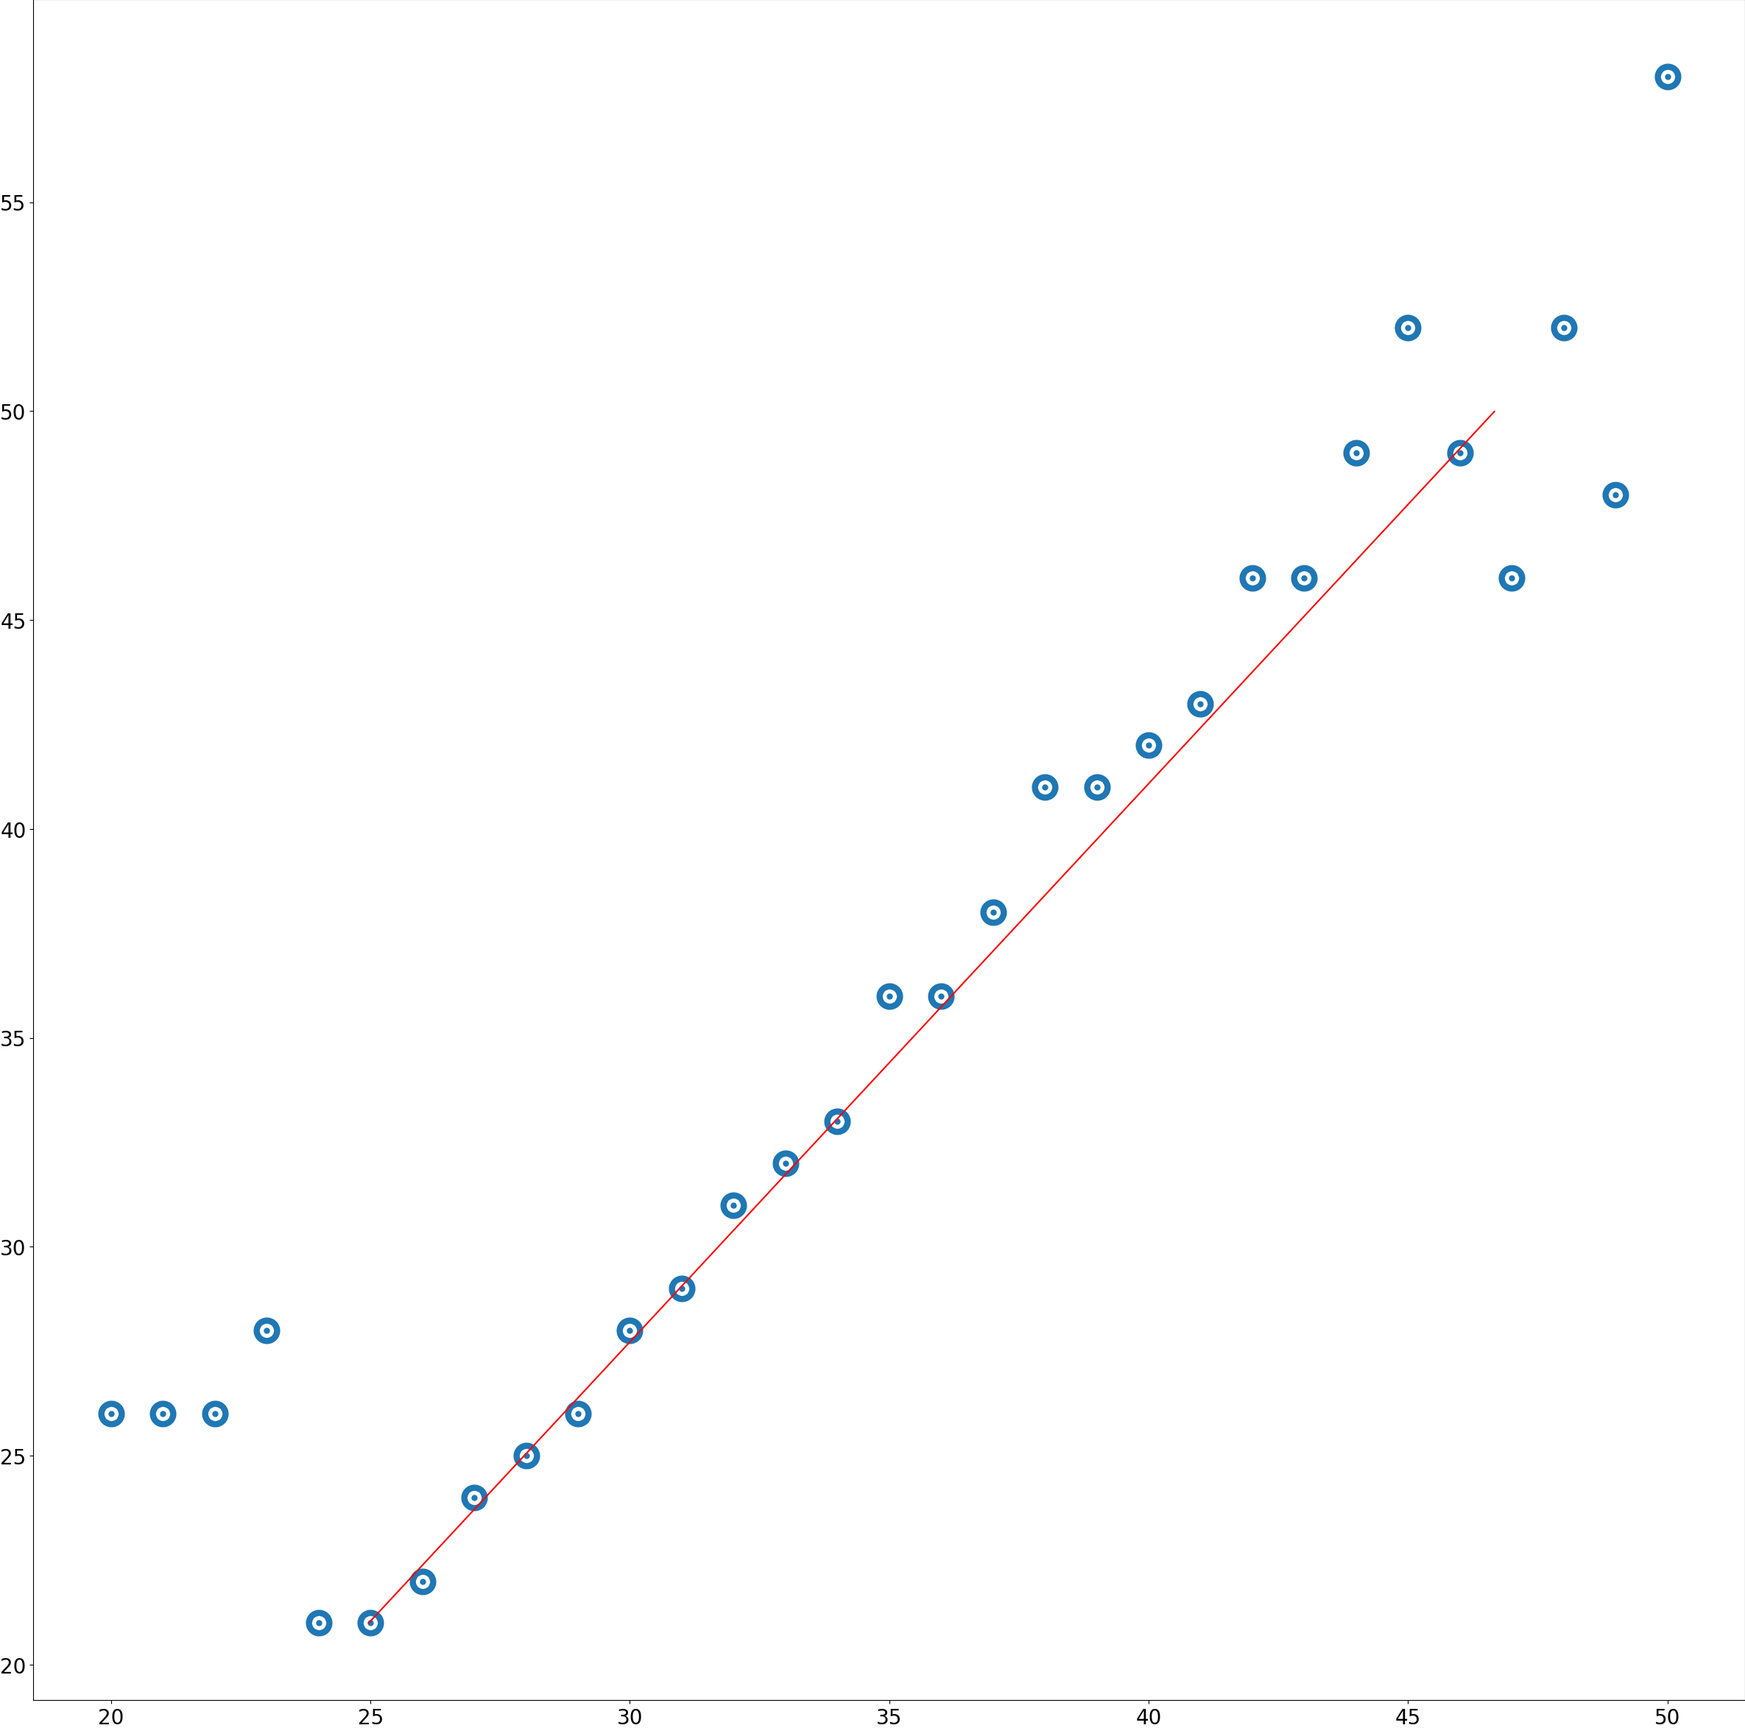
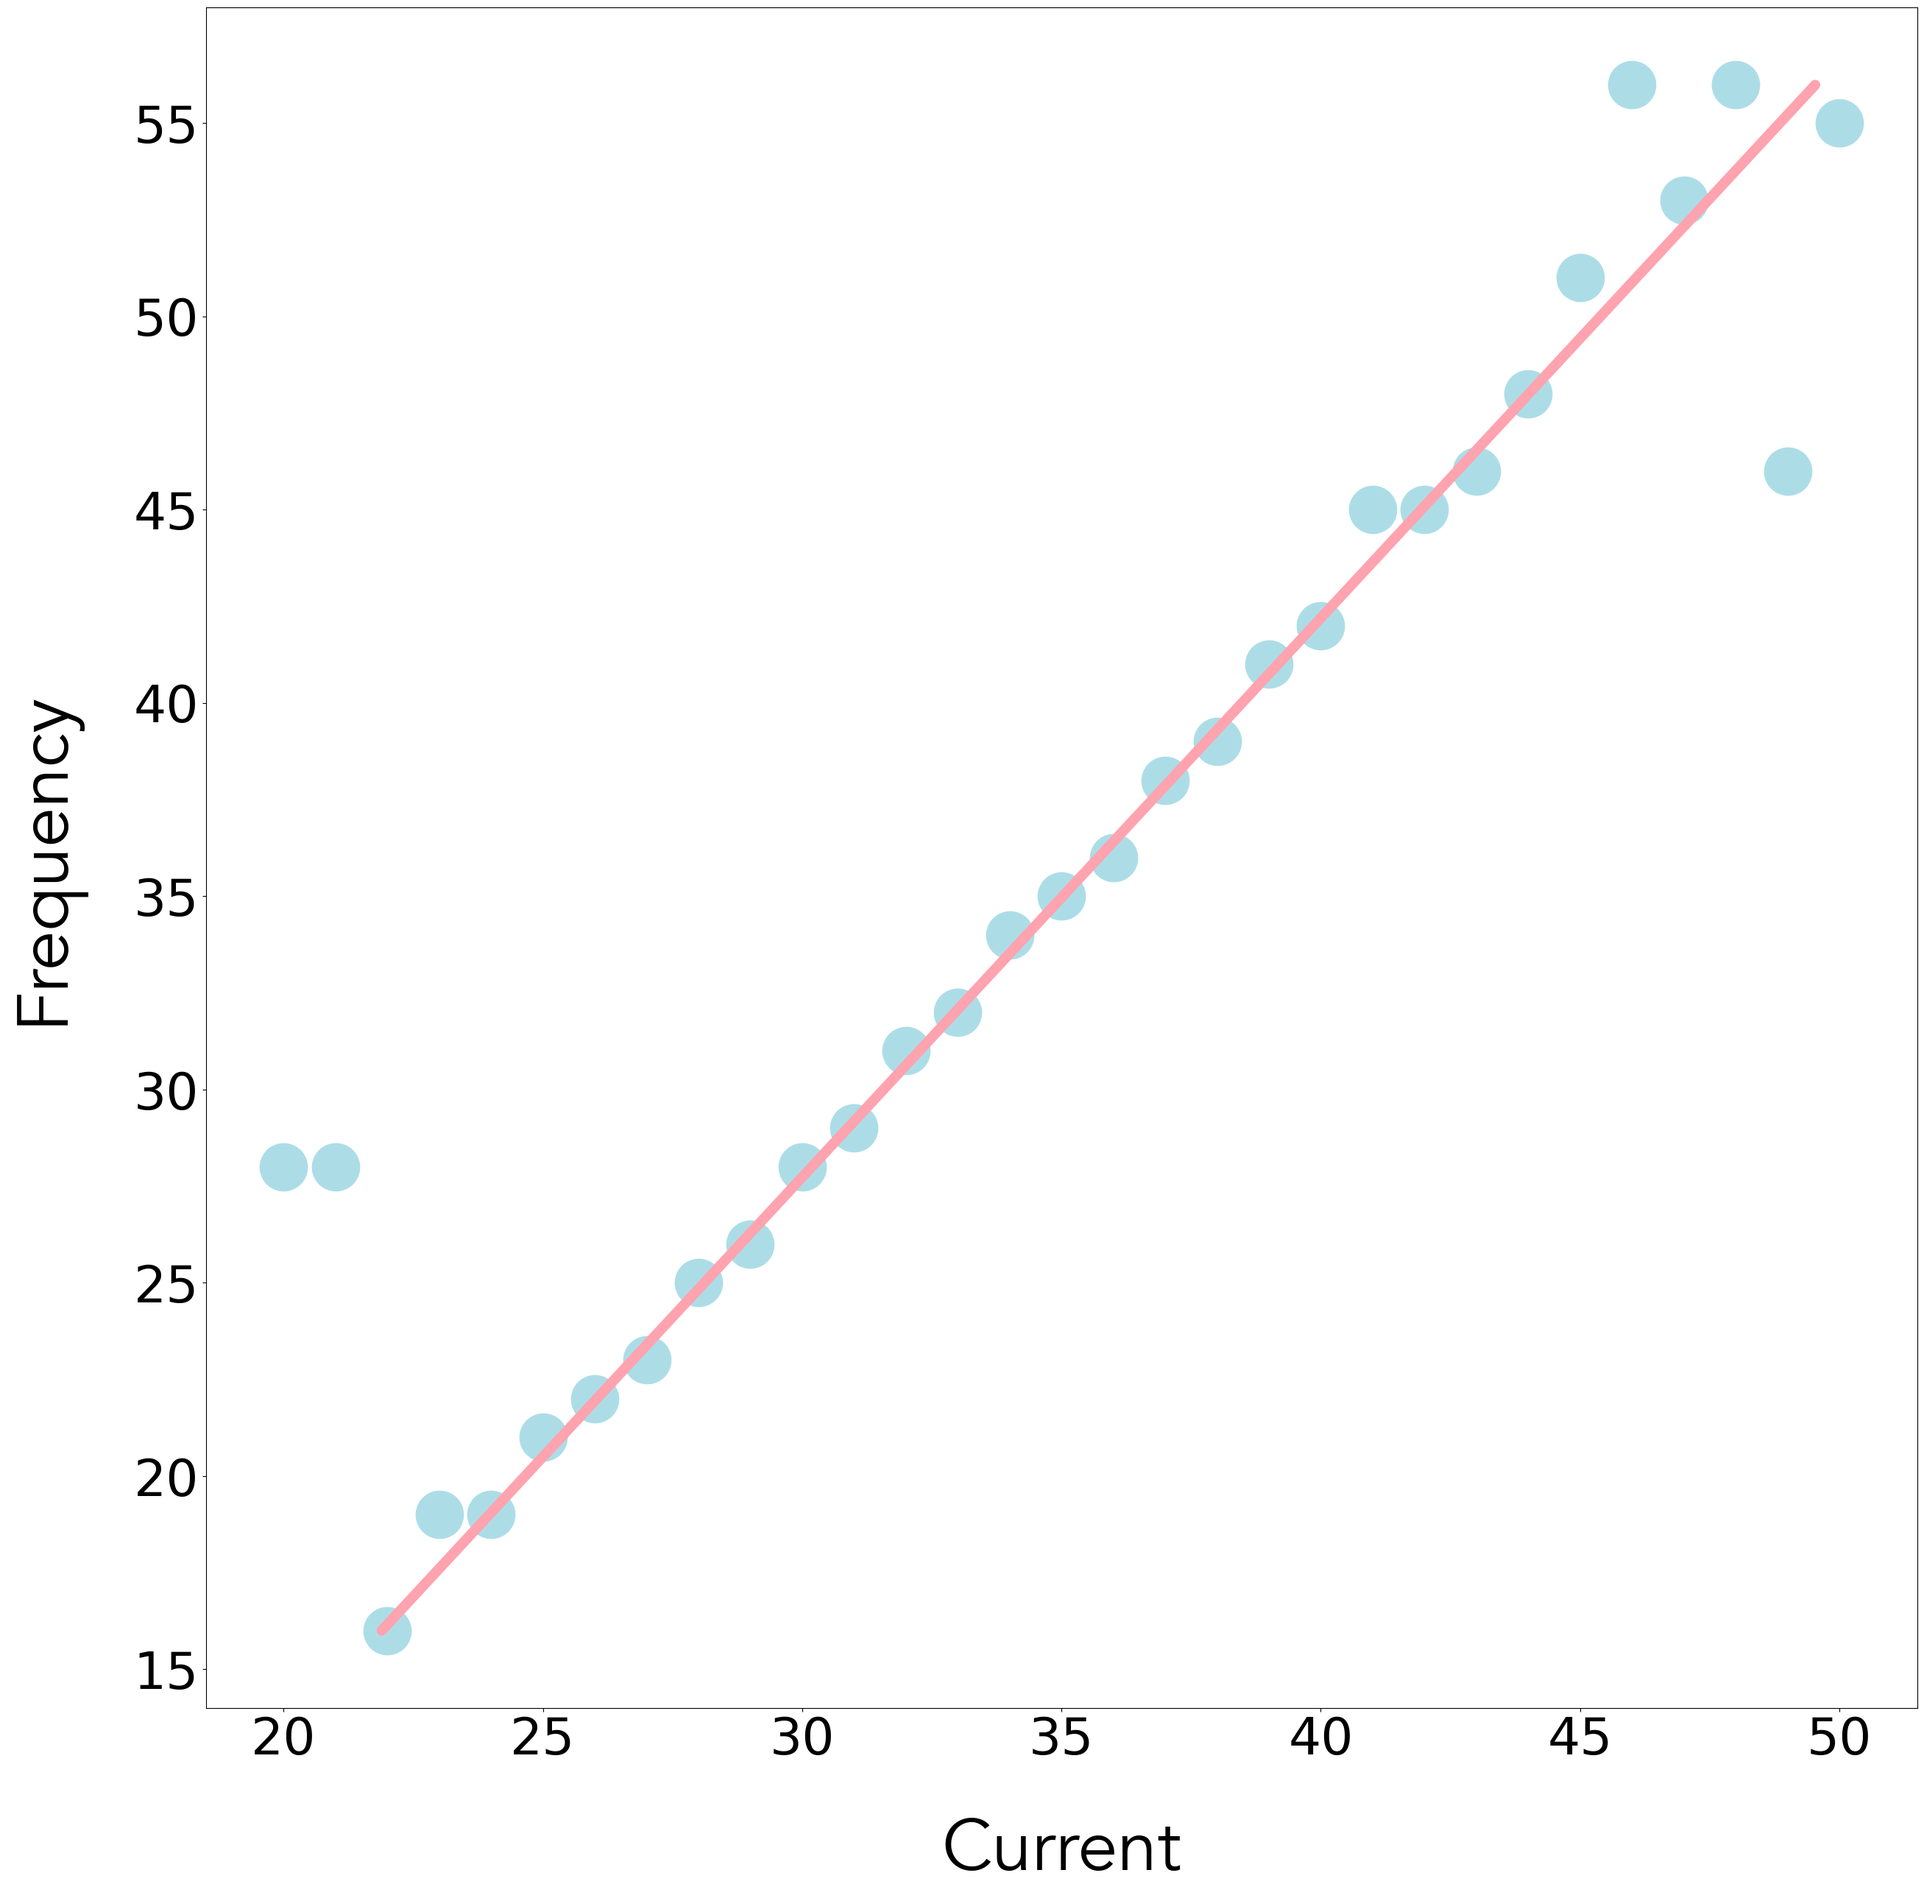
updated plotting

diff --git a/src/LuminanceToContrastConverter.py b/src/LuminanceToContrastConverter.py
@@ -18,7 +18,7 @@ class LuminanceToContrastConverter:
     def convert(
             self,
             params_rf: ParamsReceptiveField, patch_geometry: PatchGeometry, stimulus_luminance: GaborLuminanceStimulus
-    ) -> list[float]:
+    ) -> np.ndarray[int, float]:
         """
         Converts the luminance stimulus into the local contrasts stimulus.
 
@@ -34,7 +34,7 @@ class LuminanceToContrastConverter:
         :type stimulus_luminance: GaborLuminanceStimulus
 
         :return: the stimulus converted to local contrasts.
-        :rtype: list[float]
+        :rtype: numpy.ndarray[int, float]
         """
 
         return self._compute_local_contrasts(params_rf, patch_geometry, stimulus_luminance)
@@ -42,7 +42,7 @@ class LuminanceToContrastConverter:
     def _compute_local_contrasts(
             self,
             params_rf: ParamsReceptiveField, patch_geometry: PatchGeometry, stimulus_luminance: GaborLuminanceStimulus
-    ) -> list[float]:
+    ) -> np.ndarray[int, float]:
         """
         Computes local contrasts for each circuit.
 
@@ -56,7 +56,7 @@ class LuminanceToContrastConverter:
         :type params_rf: ParamsReceptiveField
 
         :return: list containing local contrast values for each circuit.
-        :rtype: list[float]
+        :rtype: numpy.ndarray[int, float]
         """
 
         mean_luminance = mean(np.array(stimulus_luminance.stimulus).flatten())
@@ -87,7 +87,7 @@ class LuminanceToContrastConverter:
             local_contrast = sqrt(num / denum)
             local_contrasts.append(local_contrast)
 
-        return local_contrasts
+        return np.array(local_contrasts)
 
     def _get_weight(
             self,
@@ -116,3 +116,38 @@ class LuminanceToContrastConverter:
         diam_rf = max(params_rf.slope * eccentricity + params_rf.intercept, params_rf.min_diam_rf)
         std = diam_rf / 4.0
         return exp(-euclidian_dist(pixel, center) / (2 * std ** 2))
+
+    def plot_local_contrasts(self, local_contrasts: np.ndarray[(int, int), float], filename: str) -> None:
+        """
+        Plots the binary heatmap of local contrasts.
+
+        :param filename: name of the file for the plot (excluding extension).
+        :type filename: str
+
+        :param local_contrasts: a local_contrasts matrix to plot.
+        :type local_contrasts: np.ndarray[(int, int), float]
+
+        :rtype: None
+        """
+
+        path = f"../plots/{filename}.png"
+        print("Plotting local contrasts.....", end="")
+
+        fig, ax = plt.subplots(figsize=(30, 30))
+        sns.heatmap(
+            local_contrasts,
+            annot=False,
+            vmin=0,
+            vmax=1,
+            cmap="gist_gray",
+            cbar=False,
+            square=True,
+            xticklabels=False,
+            yticklabels=False,
+            ax=ax
+        )
+
+        fig.savefig(path, bbox_inches='tight', pad_inches=0)
+
+        print(end="\r", flush=True)
+        print(f"Plotting ended, result: {path[3:]}")

diff --git a/src/FrequencyToCurrentConverter.py b/src/FrequencyToCurrentConverter.py
@@ -13,6 +13,7 @@ import numpy as np
 from math import floor, pi
 from scipy import fft
 import matplotlib.pyplot as plt
+from matplotlib.font_manager import FontProperties
 from tqdm import tqdm
 
 from sklearn.linear_model import TheilSenRegressor
@@ -76,7 +77,7 @@ class FrequencyToCurrentConverter:
         fitted_model = self._fit_line_robust(x=inputs, y=g_power.reshape((-1, 1)))
 
         # plot
-        freqs_line = np.arange(g_power.min(), inputs.max(), 0.01)
+        freqs_line = np.arange(g_power.min(), g_power.max(), 0.01)
         currents_line = fitted_model.predict(freqs_line.reshape((len(freqs_line), 1)))
         self._plot_relationship(g_power, inputs, freqs_line, currents_line)
 
@@ -194,7 +195,7 @@ class FrequencyToCurrentConverter:
         tfr = np.zeros((len(freq_of_interest), len(t)), dtype="complex_") * np.nan
 
         # set the width of the Gaussian
-        sd = .05
+        sd = 0.05
         for freq in freq_of_interest:
             g = np.exp(-np.power(wt, 2) / (2 * sd ** 2))
             complex_sine = np.exp(1j * 2 * pi * freq * wt)
@@ -236,12 +237,26 @@ class FrequencyToCurrentConverter:
 
         # TODO:: make pretty
 
+        print("Plotting current-frequency.....", end="")
+        path = "../plots/test-freq-current-relationship.png"
+
+        font = FontProperties()
+        font.set_family('serif')
+        font.set_name('Avenir')
+        font.set_weight('ultralight')
+
         fig, ax = plt.subplots(figsize=(30, 30))
-        ax.tick_params(axis='both', which='major', labelsize=20)
+        ax.tick_params(axis='both', which='major', labelsize=50)
 
         # simulation data
-        plt.scatter(currents, freqs, linewidths=20)
+        plt.scatter(currents, freqs, linewidths=30, s=300, c="#ACDDE7")
         # fitted line
-        plt.plot(currents_line, freqs_line, color='r')
+        plt.plot(currents_line, freqs_line, solid_capstyle='round', color="#FFA3AF", lw=10)
 
-        fig.savefig("../plots/test-freq-current-relationship.png", bbox_inches='tight', pad_inches=0)
+        plt.xlabel("Current", fontsize=70, fontproperties=font, labelpad=50)
+        plt.ylabel("Frequency", fontsize=70, fontproperties=font, labelpad=50)
+
+        fig.savefig(path, bbox_inches='tight')
+
+        print(end="\r", flush=True)
+        print(f"Plotting ended, result: {path[3:]}")

diff --git a/src/ContrastToFrequencyConverter.py b/src/ContrastToFrequencyConverter.py
@@ -6,14 +6,14 @@ class ContrastToFrequencyConverter:
     This class converts the local contrasts stimulus into the frequencies stimulus.
     """
 
-    def convert(self, stimulus_contrast: list[float]) -> np.ndarray[int, float]:
+    def convert(self, stimulus_contrast: np.ndarray[int, float]) -> np.ndarray[int, float]:
         """
         Converts the local contrasts stimulus into the frequencies stimulus.
 
         The approach is derived from :cite:p:`MaryamPLACEHOLDER`.
 
         :param stimulus_contrast: local contrasts stimulus.
-        :type stimulus_contrast: list[float]
+        :type stimulus_contrast: numpy.ndarray[int, float]
 
         :return: the stimulus converted to frequencies.
         :rtype: numpy.ndarray[int, float]
@@ -21,12 +21,12 @@ class ContrastToFrequencyConverter:
 
         return self._compute_frequencies(stimulus_contrast)
 
-    def _compute_frequencies(self, stimulus_contrast: list[float]) -> np.ndarray[int, float]:
+    def _compute_frequencies(self, stimulus_contrast: np.ndarray[int, float]) -> np.ndarray[int, float]:
         """
         Computes oscillation frequencies of the circuit through local contrasts.
 
         :param stimulus_contrast: list containing local contrast values for each circuit.
-        :type stimulus_contrast: list[float]
+        :type stimulus_contrast: numpy.ndarray[int, float]
 
         :return: list containing oscillation frequencies for each circuit.
         :rtype: numpy.ndarray[int, float]

diff --git a/src/GaborLuminanceStimulus.py b/src/GaborLuminanceStimulus.py
@@ -43,9 +43,11 @@ class GaborLuminanceStimulus:
         self.patch_start: tuple[int, int] = patch_start
 
     def plot_stimulus(self, filename: str) -> None:
+        print("Plotting stimulus.....", end="")
         self._plot(self.stimulus, filename)
 
     def plot_patch(self, filename: str) -> None:
+        print("Plotting patch.....", end="")
         self._plot(self.stimulus_patch, filename)
 
     def _plot(self, stimulus: np.ndarray[(int, int), float], filename: str) -> None:
@@ -62,7 +64,22 @@ class GaborLuminanceStimulus:
         """
 
         path = f"../plots/{filename}.png"
-        print("Plotting.....", end="")
-        plot_binary_heatmap(im=stimulus, path=path)
+
+        fig, ax = plt.subplots(figsize=(30, 30))
+        sns.heatmap(
+            stimulus,
+            annot=False,
+            vmin=0,
+            vmax=1,
+            cmap="gist_gray",
+            cbar=False,
+            square=True,
+            xticklabels=False,
+            yticklabels=False,
+            ax=ax
+        )
+
+        fig.savefig(path, bbox_inches='tight', pad_inches=0)
+
         print(end="\r", flush=True)
         print(f"Plotting ended, result: {path[3:]}")

diff --git a/src/ParamsInitializer.py b/src/ParamsInitializer.py
@@ -12,22 +12,22 @@ class ParamsInitializer:
 
     def initialize(self):
         params_ping = ParamsPING(
-            nr_excitatory=200,
-            nr_inhibitory=50,
-            nr_ping_networks=25
+            nr_excitatory=200,#400,
+            nr_inhibitory=50,#100,
+            nr_ping_networks=25#100
         )
         params_gabor = ParamsGaborStimulus(
             spatial_freq=5.7,
             vlum=0.5,
             diameter_dg=1,
             diameter=50,
-            dist_scale=1,
-            full_width_dg=40,
+            dist_scale=2.5,
+            full_width_dg=35,
             full_height_dg=27.09,
             contrast_range=0.01,
-            figure_width_dg=10,
-            figure_height_dg=5,
-            figure_ecc_dg=7,
+            figure_width_dg=9,
+            figure_height_dg=5.1,
+            figure_ecc_dg=8,
             patch_size_dg=5
         )
         params_rf = ParamsReceptiveField(

diff --git a/src/StimulusFactory.py b/src/StimulusFactory.py
@@ -67,9 +67,14 @@ class StimulusFactory:
             atopix=stimulus_luminance.atopix
         )
 
-        stimulus_contrasts = LuminanceToContrastConverter().convert(
+        luminance_to_contrast_converter = LuminanceToContrastConverter()
+        stimulus_contrasts = luminance_to_contrast_converter.convert(
             params_rf, patch_geometry, stimulus_luminance
         )
+        luminance_to_contrast_converter.plot_local_contrasts(
+            stimulus_contrasts.reshape(params_ping.grid_size, params_ping.grid_size), filename="test-local-contrast"
+        )
+
         stimulus_frequencies = ContrastToFrequencyConverter().convert(
             stimulus_contrasts
         )

diff --git a/src/ParamsPING.py b/src/ParamsPING.py
@@ -37,6 +37,7 @@ class ParamsPING(Params):
     :ivar nr_neurons: dictionary of number of neurons of each type and the total number of neurons.
     :ivar neur_slice: indices of each type of neurons.
     :ivar nr_ping_networks: number of PING networks in the network.
+    :ivar grid_size: number of PING networks in each row and column.
     """
 
     def __init__(self, nr_excitatory: int, nr_inhibitory: int, nr_ping_networks: int=1):
@@ -65,3 +66,4 @@ class ParamsPING(Params):
             NeuronTypes.I: slice(nr_excitatory, nr_excitatory + nr_inhibitory),
         }
         self.nr_ping_networks: int = nr_ping_networks
+        self.grid_size: int = int(sqrt(nr_ping_networks))

diff --git a/src/main.py b/src/main.py
@@ -4,7 +4,6 @@ from src.ConnectivityGridPINGFactory import *
 from src.CurrentComponentsGridPING import *
 from src.IzhikevichNetworkSimulator import *
 
-# TODO:: plot lc
 
 if __name__ == "__main__":
 
